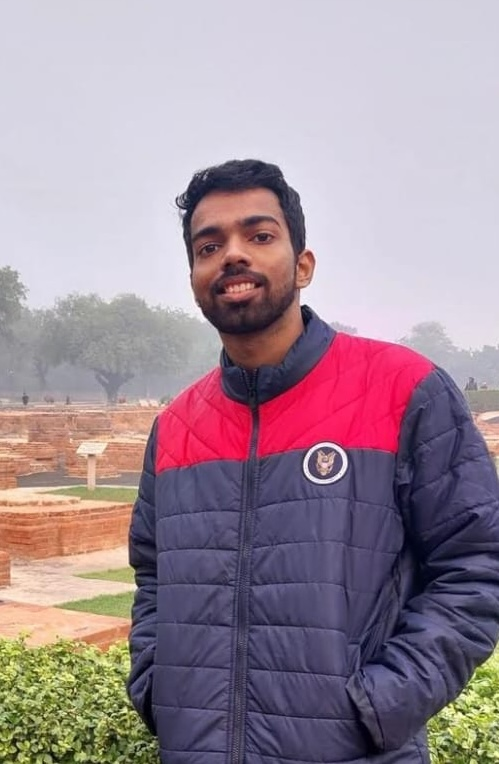
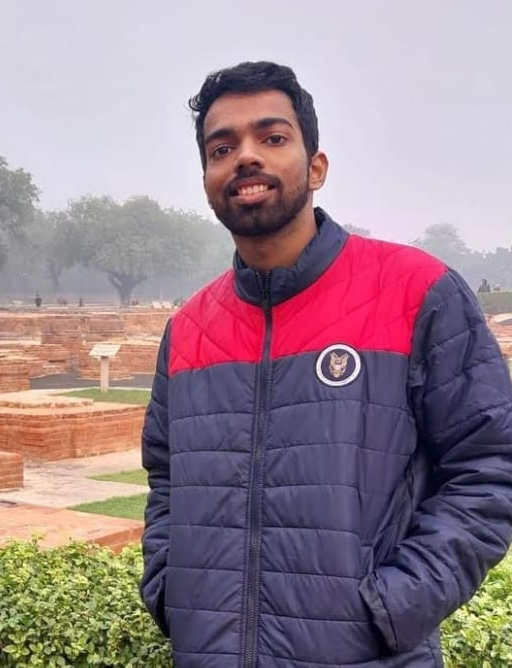
Restructure People section and update photos
- Merge Project Students and Intern Students into one section
- Rename Postdoc Scholars to Postdoctoral Researchers, add To be updated
- Add To be updated under PhD Scholars
- Remove Alumni section
- Add Sonalisa Kar photo, update Thilakraj Bhandary photo
- Remove deleted Shiksha Bharadwaj photo (reverted to placeholder)

diff --git a/index.html b/index.html
@@ -775,64 +775,14 @@
         <div id="view-people" class="view-section hidden-tab fade-in">
             <div class="max-w-6xl mx-auto px-6 py-16">
                 <h2 class="serif text-4xl font-bold text-gray-900 mb-12">People</h2>
-                <h3 class="text-xl uppercase tracking-widest text-gray-500 mb-8 border-b border-gray-200 pb-2">Postdoc Scholars</h3>
-                <!-- <div class="grid grid-cols-1 md:grid-cols-3 gap-8 mb-12">
-                    <div>
-                        <img src="https://api.dicebear.com/7.x/notion/svg?seed=Arjun" class="w-full aspect-square bg-gray-100 object-cover mb-4">
-                        <h4 class="serif font-bold text-lg text-gray-900">Arjun Rao</h4>
-                        <p class="text-sm text-gray-500">PhD Student</p>
-                    </div>
-                    <div>
-                        <img src="https://api.dicebear.com/7.x/notion/svg?seed=Priya" class="w-full aspect-square bg-gray-100 object-cover mb-4">
-                        <h4 class="serif font-bold text-lg text-gray-900">Priya Sharma</h4>
-                        <p class="text-sm text-gray-500">PhD Student</p>
-                    </div>
-                </div> -->
 
-                 <h3 class="text-xl uppercase tracking-widest text-gray-500 mb-8 border-b border-gray-200 pb-2">PhD Scholars</h3>
-                <!-- <div class="grid grid-cols-1 md:grid-cols-3 gap-8 mb-12">
-                    <div>
-                        <img src="https://api.dicebear.com/7.x/notion/svg?seed=Arjun" class="w-full aspect-square bg-gray-100 object-cover mb-4">
-                        <h4 class="serif font-bold text-lg text-gray-900">Arjun Rao</h4>
-                        <p class="text-sm text-gray-500">PhD Student</p>
-                    </div>
-                    <div>
-                        <img src="https://api.dicebear.com/7.x/notion/svg?seed=Priya" class="w-full aspect-square bg-gray-100 object-cover mb-4">
-                        <h4 class="serif font-bold text-lg text-gray-900">Priya Sharma</h4>
-                        <p class="text-sm text-gray-500">PhD Student</p>
-                    </div>
-                </div> -->
+                <h3 class="text-xl uppercase tracking-widest text-gray-500 mb-4 border-b border-gray-200 pb-2">Postdoctoral Researchers</h3>
+                <p class="text-sm text-gray-400 italic mb-12">To be updated</p>
 
+                <h3 class="text-xl uppercase tracking-widest text-gray-500 mb-4 border-b border-gray-200 pb-2">PhD Scholars</h3>
+                <p class="text-sm text-gray-400 italic mb-12">To be updated</p>
 
-                <h3 class="text-xl uppercase tracking-widest text-gray-500 mb-8 border-b border-gray-200 pb-2">Project Students</h3>
-                <!-- <div class="grid grid-cols-1 md:grid-cols-2 lg:grid-cols-3 gap-8">
-                    <div class="p-6 border border-gray-100 bg-gray-50">
-                        <h4 class="font-bold text-gray-900">Ronny Koop</h4>
-                        <p class="text-sm text-gray-600">B.Sc Project (FAU, 2023-2024)</p>
-                    </div>
-                    <div class="p-6 border border-gray-100 bg-gray-50">
-                        <h4 class="font-bold text-gray-900">Tatiana Iakovleva</h4>
-                        <p class="text-sm text-gray-600">Ph.D. Co-supervision (OIST, 2021-2022)</p>
-                    </div>
-                    <div class="p-6 border border-gray-100 bg-gray-50">
-                        <h4 class="font-bold text-gray-900">Sampreet Kalita</h4>
-                        <p class="text-sm text-gray-600">B.Tech Project (IIT Guwahati, 2016)</p>
-                    </div>
-                    <div class="p-6 border border-gray-100 bg-gray-50">
-                        <h4 class="font-bold text-gray-900">Hoshu Hiyane</h4>
-                        <p class="text-sm text-gray-600">Ph.D. Rotation (OIST, 2021)</p>
-                    </div>
-                    <div class="p-6 border border-gray-100 bg-gray-50">
-                        <h4 class="font-bold text-gray-900">Soma Mishra</h4>
-                        <p class="text-sm text-gray-600">Ph.D. Rotation (OIST, 2021)</p>
-                    </div>
-                    <div class="p-6 border border-gray-100 bg-gray-50">
-                        <h4 class="font-bold text-gray-900">Shubhajit Pal</h4>
-                        <p class="text-sm text-gray-600">M.Sc. Project (IIT Guwahati, 2015)</p>
-                    </div>
-                </div> -->
-
-                 <h3 class="text-xl uppercase tracking-widest text-gray-500 mb-8 border-b border-gray-200 pb-2">Intern Students</h3>
+                <h3 class="text-xl uppercase tracking-widest text-gray-500 mb-8 border-b border-gray-200 pb-2">Project & Intern Students</h3>
                 <div class="grid grid-cols-2 md:grid-cols-3 lg:grid-cols-5 gap-6 mb-12">
                     <div class="text-center">
                         <img src="assets/group_members/project_students/Eashan-Raina-2026.jpeg" alt="Eashan Raina" class="w-full aspect-square object-cover rounded-sm shadow mb-3">
@@ -853,9 +803,7 @@
                         <p class="text-xs text-gray-400">May 2026 – present</p>
                     </div>
                     <div class="text-center">
-                        <div class="w-full aspect-square bg-gray-100 rounded-sm shadow mb-3 flex items-center justify-center">
-                            <svg class="w-12 h-12 text-gray-300" fill="currentColor" viewBox="0 0 24 24"><path d="M12 12c2.7 0 4.8-2.1 4.8-4.8S14.7 2.4 12 2.4 7.2 4.5 7.2 7.2 9.3 12 12 12zm0 2.4c-3.2 0-9.6 1.6-9.6 4.8v2.4h19.2v-2.4c0-3.2-6.4-4.8-9.6-4.8z"/></svg>
-                        </div>
+                        <img src="assets/group_members/project_students/Sonalisa-Kar-2026.jpeg" alt="Sonalisa Kar" class="w-full aspect-square object-cover rounded-sm shadow mb-3">
                         <h4 class="font-bold text-sm text-gray-900">Sonalisa Kar</h4>
                         <p class="text-xs text-gray-500">MS, IISER Pune</p>
                         <p class="text-xs text-gray-400">May 2026 – present</p>
@@ -867,7 +815,9 @@
                         <p class="text-xs text-gray-400">May 2026 – present</p>
                     </div>
                     <div class="text-center">
-                        <img src="assets/group_members/project_students/Shiksha-Bharadwaj-2026.jpeg" alt="Shiksha Bharadwaj" class="w-full aspect-square object-cover rounded-sm shadow mb-3">
+                        <div class="w-full aspect-square bg-gray-100 rounded-sm shadow mb-3 flex items-center justify-center">
+                            <svg class="w-12 h-12 text-gray-300" fill="currentColor" viewBox="0 0 24 24"><path d="M12 12c2.7 0 4.8-2.1 4.8-4.8S14.7 2.4 12 2.4 7.2 4.5 7.2 7.2 9.3 12 12 12zm0 2.4c-3.2 0-9.6 1.6-9.6 4.8v2.4h19.2v-2.4c0-3.2-6.4-4.8-9.6-4.8z"/></svg>
+                        </div>
                         <h4 class="font-bold text-sm text-gray-900">Shiksha Bharadwaj</h4>
                         <p class="text-xs text-gray-500">MSc, IIT Indore</p>
                         <p class="text-xs text-gray-400">May 2026 – present</p>
@@ -897,34 +847,6 @@
                         <p class="text-xs text-gray-400">May 2026 – present</p>
                     </div>
                 </div>
-
-                <h3 class="text-xl uppercase tracking-widest text-gray-500 mb-8 border-b border-gray-200 pb-2">Alumni</h3>
-                <!-- <div class="grid grid-cols-1 md:grid-cols-2 lg:grid-cols-3 gap-8">
-                    <div class="p-6 border border-gray-100 bg-gray-50">
-                        <h4 class="font-bold text-gray-900">Ronny Koop</h4>
-                        <p class="text-sm text-gray-600">B.Sc Project (FAU, 2023-2024)</p>
-                    </div>
-                    <div class="p-6 border border-gray-100 bg-gray-50">
-                        <h4 class="font-bold text-gray-900">Tatiana Iakovleva</h4>
-                        <p class="text-sm text-gray-600">Ph.D. Co-supervision (OIST, 2021-2022)</p>
-                    </div>
-                    <div class="p-6 border border-gray-100 bg-gray-50">
-                        <h4 class="font-bold text-gray-900">Sampreet Kalita</h4>
-                        <p class="text-sm text-gray-600">B.Tech Project (IIT Guwahati, 2016)</p>
-                    </div>
-                    <div class="p-6 border border-gray-100 bg-gray-50">
-                        <h4 class="font-bold text-gray-900">Hoshu Hiyane</h4>
-                        <p class="text-sm text-gray-600">Ph.D. Rotation (OIST, 2021)</p>
-                    </div>
-                    <div class="p-6 border border-gray-100 bg-gray-50">
-                        <h4 class="font-bold text-gray-900">Soma Mishra</h4>
-                        <p class="text-sm text-gray-600">Ph.D. Rotation (OIST, 2021)</p>
-                    </div>
-                    <div class="p-6 border border-gray-100 bg-gray-50">
-                        <h4 class="font-bold text-gray-900">Shubhajit Pal</h4>
-                        <p class="text-sm text-gray-600">M.Sc. Project (IIT Guwahati, 2015)</p>
-                    </div>
-                </div> -->
             </div>
         </div>
 